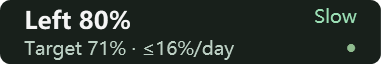
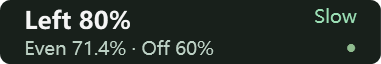
Show calendar and shift-end quota targets together

Changed region(s): [[0.3753, 0.625, 0.6352, 0.9375], [0.0577, 0.625, 0.2887, 0.9375]]

diff --git a/site/en/index.html b/site/en/index.html
@@ -18,7 +18,7 @@
   <meta property="og:url" content="https://chenfenghao.github.io/codex-weekly-pet-hud/en/">
   <meta property="og:locale" content="en_US">
   <meta property="og:image" content="https://chenfenghao.github.io/codex-weekly-pet-hud/assets/images/capsule.en.png">
-  <meta property="og:image:alt" content="Quota left / Target remaining / Daily budget / Reset radar">
+  <meta property="og:image:alt" content="Quota left / Even-use target / Shift-end target / Reset radar">
   <meta name="twitter:card" content="summary">
   <link rel="icon" type="image/svg+xml" href="../assets/icon.svg">
   <link rel="stylesheet" href="../assets/site.css">
@@ -38,10 +38,10 @@
         <div class="actions"><a class="button primary" data-download href="https://github.com/chenfenghao/codex-weekly-pet-hud/releases/latest">Download Windows x64 <span aria-hidden="true">↓</span></a><a class="text-link" href="https://github.com/chenfenghao/codex-weekly-pet-hud">View source ↗</a></div>
         <p class="release-status" data-release-status aria-live="polite">Get the latest stable build on GitHub</p>
       </div>
-      <figure class="preview"><figcaption><span class="preview-dot"></span>Real interface · Sample data</figcaption><div class="preview-inner"><img src="../assets/images/capsule.en.png" width="380" height="144" alt="Quota left / Target remaining / Daily budget / Reset radar"><div class="tether"></div><div class="pet-label">Follows your existing Codex Pet</div></div><p class="preview-caption">Quota left / Target remaining / Daily budget / Reset radar</p></figure>
+      <figure class="preview"><figcaption><span class="preview-dot"></span>Real interface · Sample data</figcaption><div class="preview-inner"><img src="../assets/images/capsule.en.png" width="380" height="144" alt="Quota left / Even-use target / Shift-end target / Reset radar"><div class="tether"></div><div class="pet-label">Follows your existing Codex Pet</div></div><p class="preview-caption">Quota left / Even-use target / Shift-end target / Reset radar</p></figure>
     </section>
     <div class="stats wrap"><div><strong>190 × 72</strong><span>Default size · Adjustable scale</span></div><div><strong>1–60 min</strong><span>Refresh interval · 5 by default</span></div><div><strong>中文 / EN</strong><span>Switch language anytime</span></div></div>
-    <section class="section wrap" id="features"><p class="eyebrow">01 / FEATURES</p><h2>The information you need. Just enough.</h2><div class="features"><article><span class="index">01</span><h3>Understand your pace</h3><p>Choose all-day or working-hours pacing, with weekdays, shifts and breaks. Target remaining freezes off duty; see pace, exhaustion estimates and today’s budget.</p></article><article><span class="index">02</span><h3>Hear about reset signals</h3><p>Reads public community signals from codex-reset.com. New strong signals and reset announcements can alert you. History syncs silently; repeated states do not notify again.</p></article><article><span class="index">03</span><h3>Follows your Pet. Makes room.</h3><p>Follow your Pet, or choose Taskbar mode in Settings for an independent display with Pet closed. Both modes temporarily hide during supported system flyouts.</p></article></div></section>
+    <section class="section wrap" id="features"><p class="eyebrow">01 / FEATURES</p><h2>The information you need. Just enough.</h2><div class="features"><article><span class="index">01</span><h3>Understand your pace</h3><p>See both the even-use balance for now and the planned balance at shift end. Configure weekdays, shifts and breaks; pace, exhaustion estimates and detail budgets support all-day or working-hours calculations.</p></article><article><span class="index">02</span><h3>Hear about reset signals</h3><p>Reads public community signals from codex-reset.com. New strong signals and reset announcements can alert you. History syncs silently; repeated states do not notify again.</p></article><article><span class="index">03</span><h3>Follows your Pet. Makes room.</h3><p>Follow your Pet, or choose Taskbar mode in Settings for an independent display with Pet closed. Both modes temporarily hide during supported system flyouts.</p></article></div></section>
     <section class="pace wrap"><div><p class="eyebrow">02 / YOUR PACE</p><h2>“Left” is your quota.<br>“Target” is your reference.</h2><p>Pace R = quota percentage used ÷ time percentage elapsed in the selected mode. If 40% of the week has passed and 60% of quota is used, R = 1.5: Too fast.</p><p class="small">Uses a fixed seven-day window. Working-hours mode counts scheduled work and budgets for the work left today. Reaching reset does not automatically refill quota.</p></div><div class="pace-bands"><div><i></i><strong>Slow</strong><span>R &lt; 0.85</span></div><div><i></i><strong>On track</strong><span>0.85 ≤ R ≤ 1</span></div><div><i></i><strong>Fast</strong><span>1 &lt; R ≤ 1.3</span></div><div><i></i><strong>Too fast</strong><span>R &gt; 1.3</span></div></div></section>
     <section class="section wrap setup" id="setup"><div><p class="eyebrow">03 / GET STARTED</p><h2>Extract. Open. You are set.</h2><a class="text-link" href="https://github.com/chenfenghao/codex-weekly-pet-hud/blob/main/README.en.md">Read the full English guide ↗</a></div><ol><li><span>01</span><div><h3>Extract the entire archive</h3><p>Run CodexWeeklyPetHud.exe and keep its DLL files alongside it. No separate .NET installation is needed.</p></div></li><li><span>02</span><div><h3>Choose Pet or Taskbar mode</h3><p>Follow your Codex Pet by default, or choose Taskbar mode in Settings from the tray. Click the HUD for details.</p></div></li><li><span>03</span><div><h3>Choose your language and input</h3><p>Use 设置 → 语言 / Language → English. If automatic quota reads fail, paste a reset time and remaining percentage instead.</p></div></li></ol></section>
     <section class="download wrap" id="download"><p class="eyebrow">WINDOWS x64 · MIT</p><h2>Give your Pet a status bar.</h2><p>Windows 10/11 x64 · .NET 8 runtime included · No automatic startup registration</p><div class="actions"><a class="button primary" data-download href="https://github.com/chenfenghao/codex-weekly-pet-hud/releases/latest">Download Windows x64 <span aria-hidden="true">↓</span></a><a class="text-link" data-checksum href="https://github.com/chenfenghao/codex-weekly-pet-hud/releases/latest">SHA-256 checksums ↗</a><a class="text-link" data-release-link href="https://github.com/chenfenghao/codex-weekly-pet-hud/releases/latest">Release notes ↗</a></div><p class="small unsigned">This build is unsigned; Windows may show an unknown-publisher prompt. Exit the old version before upgrading and verify against SHA256SUMS.txt from the same release.</p></section>

diff --git a/site/index.html b/site/index.html
@@ -18,7 +18,7 @@
   <meta property="og:url" content="https://chenfenghao.github.io/codex-weekly-pet-hud/">
   <meta property="og:locale" content="zh_CN">
   <meta property="og:image" content="https://chenfenghao.github.io/codex-weekly-pet-hud/assets/images/capsule.png">
-  <meta property="og:image:alt" content="剩余额度 / 匀速应剩 / 每日建议 / 重置雷达">
+  <meta property="og:image:alt" content="剩余额度 / 匀速应剩 / 下班应剩 / 重置雷达">
   <meta name="twitter:card" content="summary">
   <link rel="icon" type="image/svg+xml" href="assets/icon.svg">
   <link rel="stylesheet" href="assets/site.css">
@@ -38,10 +38,10 @@
         <div class="actions"><a class="button primary" data-download href="https://github.com/chenfenghao/codex-weekly-pet-hud/releases/latest">下载 Windows x64 <span aria-hidden="true">↓</span></a><a class="text-link" href="https://github.com/chenfenghao/codex-weekly-pet-hud">查看源码 ↗</a></div>
         <p class="release-status" data-release-status aria-live="polite">从 GitHub 获取最新稳定版</p>
       </div>
-      <figure class="preview"><figcaption><span class="preview-dot"></span>真实界面 · 示例数据</figcaption><div class="preview-inner"><img src="assets/images/capsule.png" width="380" height="144" alt="剩余额度 / 匀速应剩 / 每日建议 / 重置雷达"><div class="tether"></div><div class="pet-label">跟随你现有的 Codex Pet</div></div><p class="preview-caption">剩余额度 / 匀速应剩 / 每日建议 / 重置雷达</p></figure>
+      <figure class="preview"><figcaption><span class="preview-dot"></span>真实界面 · 示例数据</figcaption><div class="preview-inner"><img src="assets/images/capsule.png" width="380" height="144" alt="剩余额度 / 匀速应剩 / 下班应剩 / 重置雷达"><div class="tether"></div><div class="pet-label">跟随你现有的 Codex Pet</div></div><p class="preview-caption">剩余额度 / 匀速应剩 / 下班应剩 / 重置雷达</p></figure>
     </section>
     <div class="stats wrap"><div><strong>190 × 72</strong><span>默认尺寸 · 可缩放</span></div><div><strong>1–60 min</strong><span>更新间隔 · 默认 5 分钟</span></div><div><strong>中文 / EN</strong><span>界面语言 · 随时切换</span></div></div>
-    <section class="section wrap" id="features"><p class="eyebrow">01 / FEATURES</p><h2>需要的信息，刚好够用。</h2><div class="features"><article><span class="index">01</span><h3>看懂使用节奏</h3><p>选择全天或工作时段算法。可设工作日、上下班与休息时间；应剩在下班后暂停下降，显示使用快慢、耗尽预测和今日建议。</p></article><article><span class="index">02</span><h3>重置信号到来时提醒</h3><p>从 codex-reset.com 读取公开社区信号。新强信号或重置公告高亮并可通知；历史公告静默，同一状态不重复提醒。</p></article><article><span class="index">03</span><h3>跟随宠物，也会让路</h3><p>默认跟随宠物，也可在设置中切换到任务栏独立显示，无需打开 Pet。两种模式均在受支持的系统面板打开时暂时隐藏。</p></article></div></section>
+    <section class="section wrap" id="features"><p class="eyebrow">01 / FEATURES</p><h2>需要的信息，刚好够用。</h2><div class="features"><article><span class="index">01</span><h3>看懂使用节奏</h3><p>同时显示此刻的匀速应剩，以及今天收工时的下班应剩。可设工作日、上下班与休息时间；速率、耗尽预测和详情预算支持全天或工作时段算法。</p></article><article><span class="index">02</span><h3>重置信号到来时提醒</h3><p>从 codex-reset.com 读取公开社区信号。新强信号或重置公告高亮并可通知；历史公告静默，同一状态不重复提醒。</p></article><article><span class="index">03</span><h3>跟随宠物，也会让路</h3><p>默认跟随宠物，也可在设置中切换到任务栏独立显示，无需打开 Pet。两种模式均在受支持的系统面板打开时暂时隐藏。</p></article></div></section>
     <section class="pace wrap"><div><p class="eyebrow">02 / YOUR PACE</p><h2>「剩余」是现状，<br>「应剩」是参照。</h2><p>速率 R = 已用额度百分比 ÷ 所选模式的时间进度。例如时间已过 40%、额度已用 60%，R = 1.5，代表超速。</p><p class="small">按固定 7 天窗口估算；工作时段模式仅累计计划工作时间，今日建议按今天剩余工作时长分配。到达重置时间后等待真实数据。</p></div><div class="pace-bands"><div><i></i><strong>偏慢</strong><span>R &lt; 0.85</span></div><div><i></i><strong>稳健</strong><span>0.85 ≤ R ≤ 1</span></div><div><i></i><strong>偏快</strong><span>1 &lt; R ≤ 1.3</span></div><div><i></i><strong>超速</strong><span>R &gt; 1.3</span></div></div></section>
     <section class="section wrap setup" id="setup"><div><p class="eyebrow">03 / GET STARTED</p><h2>解压，打开，就位。</h2><a class="text-link" href="https://github.com/chenfenghao/codex-weekly-pet-hud/blob/main/README.md">阅读完整中文说明 ↗</a></div><ol><li><span>01</span><div><h3>完整解压下载包</h3><p>运行 CodexWeeklyPetHud.exe，保留旁边的 DLL 文件；无需单独安装 .NET。</p></div></li><li><span>02</span><div><h3>选择宠物或任务栏模式</h3><p>默认跟随 Codex Pet；也可从系统托盘进入设置，切换为任务栏显示。单击状态条查看详情。</p></div></li><li><span>03</span><div><h3>选好语言与输入方式</h3><p>设置 → 语言 / Language 切换中英文。自动读取不可用时，可以粘贴重置时间和剩余百分比。</p></div></li></ol></section>
     <section class="download wrap" id="download"><p class="eyebrow">WINDOWS x64 · MIT</p><h2>给 Pet 加一条状态栏。</h2><p>Windows 10/11 x64 · .NET 8 运行时已包含 · 便携版不注册开机启动</p><div class="actions"><a class="button primary" data-download href="https://github.com/chenfenghao/codex-weekly-pet-hud/releases/latest">下载 Windows x64 <span aria-hidden="true">↓</span></a><a class="text-link" data-checksum href="https://github.com/chenfenghao/codex-weekly-pet-hud/releases/latest">SHA-256 校验文件 ↗</a><a class="text-link" data-release-link href="https://github.com/chenfenghao/codex-weekly-pet-hud/releases/latest">版本记录 ↗</a></div><p class="small unsigned">当前构建未签名，Windows 可能提示未知发布者。升级前先从托盘退出旧版，并核对同一 Release 的 SHA256SUMS.txt。</p></section>

diff --git a/platforms/windows/CodexPetLimitRings.Windows/Views/UsageDetailsWindow.xaml b/platforms/windows/CodexPetLimitRings.Windows/Views/UsageDetailsWindow.xaml
@@ -11,6 +11,11 @@
   <DockPanel><Button Content="{local:Tr '设置'}" DockPanel.Dock="Right" Click="Settings_OnClick" Background="#293A30" Foreground="#BDD2C4" Padding="8,3"/><TextBlock Text="{local:Tr '本周节奏'}" Foreground="#A4AFA8" FontSize="12"/><TextBlock x:Name="StatusText" HorizontalAlignment="Right" FontSize="12" Margin="0,0,12,0"/></DockPanel>
   <TextBlock x:Name="RemainingText" Text="—%" FontSize="44" Margin="0,17,0,0"/>
   <TextBlock Text="{local:Tr '剩余可用额度'}" Foreground="#939E98" FontSize="11" Margin="0,0,0,18"/>
+  <Grid Margin="0,0,0,8"><Grid.ColumnDefinitions><ColumnDefinition/><ColumnDefinition/></Grid.ColumnDefinitions>
+    <StackPanel><TextBlock Text="{local:Tr '匀速应剩（此刻）'}" FontSize="11" Foreground="#AFC3B7"/><TextBlock x:Name="EvenTargetText" FontSize="23" Margin="0,4,0,0"/></StackPanel>
+    <StackPanel Grid.Column="1"><TextBlock x:Name="CloseTargetLabel" Text="{local:Tr '下班应剩'}" FontSize="11" Foreground="#AFC3B7"/><TextBlock x:Name="CloseTargetText" FontSize="23" Margin="0,4,0,0"/></StackPanel>
+  </Grid>
+  <TextBlock x:Name="WorkDeadlineText" Foreground="#939E98" FontSize="10" TextWrapping="Wrap" Margin="0,0,0,16"/>
   <DockPanel><TextBlock Text="{local:Tr '额度已用'}" Foreground="#9EAAA2" FontSize="11"/><TextBlock x:Name="UsedText" HorizontalAlignment="Right" FontSize="11"/></DockPanel>
   <ProgressBar x:Name="UsedBar" Height="5" Maximum="100" Margin="0,8,0,15" Background="#2B352E" Foreground="#9BDFB5" BorderThickness="0"/>
   <DockPanel><TextBlock x:Name="TimeLabel" Text="{local:Tr '时间已过'}" Foreground="#9EAAA2" FontSize="11"/><TextBlock x:Name="TimeText" HorizontalAlignment="Right" FontSize="11"/></DockPanel>

diff --git a/platforms/windows/CodexPetLimitRings.Windows/Views/SettingsWindow.xaml b/platforms/windows/CodexPetLimitRings.Windows/Views/SettingsWindow.xaml
@@ -35,7 +35,7 @@
       <Border Padding="16" Margin="0,0,0,12" CornerRadius="12" Background="White" BorderBrush="#E4E4E7" BorderThickness="1">
         <StackPanel>
           <TextBlock Text="{local:Tr '额度节奏算法'}" FontSize="15" FontWeight="SemiBold"/>
-          <CheckBox x:Name="WorkHoursEnabled" Content="{local:Tr '按工作时段计算（关闭则按全天）'}" Margin="0,10,0,8" Checked="Control_OnChanged" Unchecked="Control_OnChanged"/>
+          <CheckBox x:Name="WorkHoursEnabled" Content="{local:Tr '速率与预算按工作时段计算'}" Margin="0,10,0,8" Checked="Control_OnChanged" Unchecked="Control_OnChanged"/>
           <StackPanel x:Name="WorkHoursOptions">
             <WrapPanel x:Name="WorkDaysPanel" Margin="0,0,0,10">
               <CheckBox Content="{local:Tr '周一'}" Tag="1" Margin="0,0,12,6" Checked="Control_OnChanged" Unchecked="Control_OnChanged"/>

diff --git a/scripts/build-site.py b/scripts/build-site.py
@@ -16,11 +16,11 @@ COPY = {
         'heading': 'Codex 周额度，<br><span>一眼看清节奏。</span>',
         'intro': '剩下多少，应该用多快。把周额度、使用节奏和重置信号放在你的 Codex Pet 上方，专心做事，也心里有数。',
         'download': '下载 Windows x64', 'source': '查看源码 ↗', 'release': '从 GitHub 获取最新稳定版',
-        'figure': '真实界面 · 示例数据', 'pet': '跟随你现有的 Codex Pet', 'caption': '剩余额度 / 匀速应剩 / 每日建议 / 重置雷达',
+        'figure': '真实界面 · 示例数据', 'pet': '跟随你现有的 Codex Pet', 'caption': '剩余额度 / 匀速应剩 / 下班应剩 / 重置雷达',
         'stats': [('190 × 72', '默认尺寸 · 可缩放'), ('1–60 min', '更新间隔 · 默认 5 分钟'), ('中文 / EN', '界面语言 · 随时切换')],
         'featureTitle': '需要的信息，刚好够用。',
         'features': [
-            ('01', '看懂使用节奏', '选择全天或工作时段算法。可设工作日、上下班与休息时间；应剩在下班后暂停下降，显示使用快慢、耗尽预测和今日建议。'),
+            ('01', '看懂使用节奏', '同时显示此刻的匀速应剩，以及今天收工时的下班应剩。可设工作日、上下班与休息时间；速率、耗尽预测和详情预算支持全天或工作时段算法。'),
             ('02', '重置信号到来时提醒', '从 codex-reset.com 读取公开社区信号。新强信号或重置公告高亮并可通知；历史公告静默，同一状态不重复提醒。'),
             ('03', '跟随宠物，也会让路', '默认跟随宠物，也可在设置中切换到任务栏独立显示，无需打开 Pet。两种模式均在受支持的系统面板打开时暂时隐藏。'),
         ],
@@ -47,11 +47,11 @@ COPY = {
         'heading': 'Your Codex quota,<br><span>at a glance.</span>',
         'intro': 'Know what is left and how fast to use it. Keep weekly quota, usage pace and reset signals above your existing Codex Pet, so you can focus on the work.',
         'download': 'Download Windows x64', 'source': 'View source ↗', 'release': 'Get the latest stable build on GitHub',
-        'figure': 'Real interface · Sample data', 'pet': 'Follows your existing Codex Pet', 'caption': 'Quota left / Target remaining / Daily budget / Reset radar',
+        'figure': 'Real interface · Sample data', 'pet': 'Follows your existing Codex Pet', 'caption': 'Quota left / Even-use target / Shift-end target / Reset radar',
         'stats': [('190 × 72', 'Default size · Adjustable scale'), ('1–60 min', 'Refresh interval · 5 by default'), ('中文 / EN', 'Switch language anytime')],
         'featureTitle': 'The information you need. Just enough.',
         'features': [
-            ('01', 'Understand your pace', 'Choose all-day or working-hours pacing, with weekdays, shifts and breaks. Target remaining freezes off duty; see pace, exhaustion estimates and today’s budget.'),
+            ('01', 'Understand your pace', 'See both the even-use balance for now and the planned balance at shift end. Configure weekdays, shifts and breaks; pace, exhaustion estimates and detail budgets support all-day or working-hours calculations.'),
             ('02', 'Hear about reset signals', 'Reads public community signals from codex-reset.com. New strong signals and reset announcements can alert you. History syncs silently; repeated states do not notify again.'),
             ('03', 'Follows your Pet. Makes room.', 'Follow your Pet, or choose Taskbar mode in Settings for an independent display with Pet closed. Both modes temporarily hide during supported system flyouts.'),
         ],

diff --git a/platforms/windows/CodexPetLimitRings.Windows/TargetSelfTest.cs b/platforms/windows/CodexPetLimitRings.Windows/TargetSelfTest.cs
@@ -1,0 +1,44 @@
+namespace CodexPetLimitRings.Windows;
+
+internal static class TargetSelfTest
+{
+    internal static void Run(Action<bool, string> check)
+    {
+        var zone = TimeZoneInfo.CreateCustomTimeZone("TargetTest", TimeSpan.FromHours(8), "TargetTest", "TargetTest");
+        DateTimeOffset At(int day, int hour) => new(2026, 9, day, hour, 0, 0, zone.BaseUtcOffset);
+        var settings = new OverlaySettings { WorkHoursEnabled = true, WorkDays = [1,2,3,4,5,6], WorkStartMinute = 420, WorkEndMinute = 1260 };
+        var reset = At(21,7).ToUnixTimeSeconds();
+        QuotaTargets Calc(DateTimeOffset now) => WeeklyTargets.Calculate(reset,now,settings,zone);
+        void Near(double? actual, double expected, string label) => check(actual is { } value && Math.Abs(value-expected)<0.000001,label);
+        var morning=Calc(At(15,7)); var evening=Calc(At(15,20));
+        Near(morning.EvenRemaining,600d/7,"Even target counts all remaining calendar time");
+        Near(morning.CloseRemaining,200d/3,"Closing target leaves four shifts out of six");
+        Near(evening.CloseRemaining,morning.CloseRemaining!.Value,"Closing target remains fixed during work");
+        Near(Calc(At(15,23)).CloseRemaining,morning.CloseRemaining.Value,"Closing target remains fixed after work");
+        check(evening.EvenRemaining<morning.EvenRemaining,"Even target moves during day");
+        check(morning.Deadline==At(15,21) && !morning.DayOff,"Deadline is today's actual closing time");
+        settings.WorkHoursEnabled=false;
+        check(Calc(At(15,7))==morning,"Dual targets independent of pace mode");
+        settings.WorkBreakEnabled=true;
+        Near(Calc(At(15,7)).CloseRemaining,200d/3,"Daily break excluded from both total and future hours");
+        settings.WorkBreakEnabled=false;
+        var early=WeeklyTargets.Calculate(At(15,12).ToUnixTimeSeconds(),At(15,7),settings,zone);
+        Near(early.CloseRemaining,0,"Reset before closing clips target to this cycle");
+        check(early.ResetBeforeClose && early.Deadline==At(15,12),"Reset deadline disclosed");
+        check(Calc(At(20,7)).DayOff,"Sunday uses day-off label");
+        Near(Calc(At(20,23)).CloseRemaining,Calc(At(20,7)).CloseRemaining!.Value,"Day-off target remains fixed");
+        check(Calc(At(21,7)).EvenRemaining is null && Calc(At(21,7)).CloseRemaining is null,"Expired cycle clears both targets");
+        check(WeeklyTargets.Calculate(null,At(15,7),settings,zone).EvenRemaining is null,"Missing reset has no targets");
+        check(WeeklyTargets.Calculate(long.MaxValue,At(15,7),settings,zone).CloseRemaining is null,"Invalid timestamp has no targets");
+        check(WeeklyTargets.Calculate(At(23,7).ToUnixTimeSeconds(),At(15,7),settings,zone).EvenRemaining is null,"Beyond-seven-days reset rejected");
+        settings.WorkDays=[];
+        check(Calc(At(15,7)).EvenRemaining is not null && Calc(At(15,7)).CloseRemaining is null,"Invalid schedule preserves valid calendar benchmark");
+        settings.WorkDays=[1,2]; settings.WorkStartMinute=22*60; settings.WorkEndMinute=2*60;
+        var nightReset=At(21,12).ToUnixTimeSeconds();
+        var night=WeeklyTargets.Calculate(nightReset,At(14,23),settings,zone);
+        var afterMidnight=WeeklyTargets.Calculate(nightReset,At(15,1),settings,zone);
+        check(night.CloseRemaining==afterMidnight.CloseRemaining && night.Deadline==At(15,2) && afterMidnight.Deadline==night.Deadline,"Active overnight target survives midnight");
+        Near(night.CloseRemaining,50,"Overnight target preserves next shift");
+        check(WeeklyTargets.Calculate(nightReset,At(15,10),settings,zone).Deadline==At(16,2),"After overnight shift use today's upcoming shift");
+    }
+}

diff --git a/platforms/windows/CodexPetLimitRings.Windows/Views/UsageDetailsWindow.xaml.cs b/platforms/windows/CodexPetLimitRings.Windows/Views/UsageDetailsWindow.xaml.cs
@@ -6,7 +6,7 @@ namespace CodexPetLimitRings.Windows.Views;
 
 public partial class UsageDetailsWindow : Window
 {
-    public OverlaySettings? PacingSettings { get; set; }
+    public OverlaySettings? PacingSettings { get; set; } = new();
     private bool _allowClose;
     private string? _lastLanguage;
     public event Action? RefreshRequested;
@@ -28,6 +28,15 @@ public partial class UsageDetailsWindow : Window
     public void Update(UsageSnapshot usage, bool refreshing)
     {
         var pace = WeeklyPacing.Calculate(usage.SecondaryRemaining, usage.SecondaryReset, DateTimeOffset.Now, PacingSettings);
+        var targets = WeeklyTargets.Calculate(usage.SecondaryReset, DateTimeOffset.Now, PacingSettings);
+        var fresh = usage.Source is "live" or "manual";
+        EvenTargetText.Text = QuotaTargets.Percent(fresh ? targets.EvenRemaining : null);
+        CloseTargetText.Text = QuotaTargets.Percent(fresh ? targets.CloseRemaining : null);
+        CloseTargetLabel.Text = UiText.T(targets.DayOff ? "休息日应剩" : "下班应剩");
+        WorkDeadlineText.Text = targets.Deadline is { } deadline
+            ? UiText.F("工作目标截止：{0}", UiText.Date(deadline.LocalDateTime))
+            : UiText.T("设置有效作息和重置时间后显示下班目标。");
+        if (targets.ResetBeforeClose) WorkDeadlineText.Text += "\n" + UiText.T("本周期在下班前重置，工作目标截止于重置时刻。");
         var brush = (SolidColorBrush)new BrushConverter().ConvertFromString(pace.Color)!;
         RemainingText.Text = usage.SecondaryRemaining is { } remaining ? $"{remaining:0.#}%" : "—%";
         StatusText.Text = UiText.T(pace.Status); StatusText.Foreground = brush; UsedBar.Foreground = brush;
@@ -38,7 +47,7 @@ public partial class UsageDetailsWindow : Window
         TimeLabel.Text = UiText.T(work ? "计划工作时间已过" : "时间已过");
         BudgetLabel.Text = UiText.T(work ? "今日剩余可用" : "后续每日上限");
         BudgetText.Text = pace.DailyBudget is { } budget ? UiText.F(work ? "≤ {0:0.#}% 今日" : "≤ {0:0.#}% /天", Math.Floor(budget * 10) / 10) : "—";
-        PacingExplanation.Text = UiText.T(work ? "按本机时区和工作时段计算应剩，下班与休息日暂停推进。今日建议仅包含今天午夜前剩余工作时段；临时加班消耗仍会计入。修改作息会重新计算整个周期。" : "应剩＝100%−本周时间进度；建议每日上限＝剩余额度按剩余天数均摊。点击上方「设置」调整自动读取间隔，默认 5 分钟；手动粘贴后暂停自动覆盖。");
+        PacingExplanation.Text = UiText.T("匀速应剩＝剩余自然时间÷7天；下班应剩＝下班后剩余工作时长÷本周期全部工作时长。两者都是计划参考值，不随实际余额改变。");
         PredictionText.Text = pace.Prediction; PredictionText.Foreground = brush;
         CountdownText.Text = UiText.T("距离重置  ") + WeeklyPacing.Countdown(usage.SecondaryReset, DateTimeOffset.Now);
         try { ResetText.Text = usage.SecondaryReset is { } reset ? DateTimeOffset.FromUnixTimeSeconds(reset).LocalDateTime.ToString(UiText.IsEnglish ? "yyyy MMM d, ddd HH:mm" : "yyyy年M月d日 ddd HH:mm", UiText.Culture) : UiText.T("本机时区"); }

diff --git a/platforms/windows/CodexPetLimitRings.Windows/Views/PotionWindow.xaml.cs b/platforms/windows/CodexPetLimitRings.Windows/Views/PotionWindow.xaml.cs
@@ -11,7 +11,7 @@ namespace CodexPetLimitRings.Windows.Views;
 public partial class PotionWindow : Window
 {
 
-    public OverlaySettings? PacingSettings { get; set; }
+    public OverlaySettings? PacingSettings { get; set; } = new();
     private readonly string _accessibleLabel;
     private double _appliedScale = double.NaN;
     private bool _pointerPressed;
@@ -42,23 +42,23 @@ public partial class PotionWindow : Window
 
     public void UpdateUsage(double? remaining, long? resetAt, string source)
     {
-        var pace = WeeklyPacing.Calculate(remaining, resetAt, DateTimeOffset.Now, PacingSettings);
+        var now = DateTimeOffset.Now;
+        var pace = WeeklyPacing.Calculate(remaining, resetAt, now, PacingSettings);
+        var targets = WeeklyTargets.Calculate(resetAt, now, PacingSettings);
         var fresh = source is "live" or "manual";
         PaceText.Text = UiText.T(source == "none" ? "同步中" : source == "stale" ? "待更新" : pace.Status switch
         {
             "待确认重置" => "待重置", "刚刚开始" => "初始期", "检查时间" => "查时间", "等待数据" => "待数据", _ => pace.Status
         });
         RemainingText.Text = remaining is { } value ? UiText.F("剩余 {0:0.#}%", value) : UiText.T("剩余 —");
-        var ideal = fresh && pace.TimePercent is { } time && pace.DailyBudget is not null ? $"{100 - time:0}%" : "—";
-        var daily = fresh && pace.DailyBudget is { } budget ? $"≤{Math.Floor(budget * 10) / 10:0.#}%" : "—";
-        IdealText.Text = UiText.F(PacingSettings?.WorkHoursEnabled == true ? "应剩 {0} · 今日 {1}" : "应剩 {0} · 建议 {1}/天", ideal, daily);
+        IdealText.Text = targets.Compact(fresh);
         var countdown = WeeklyPacing.Countdown(resetAt, DateTimeOffset.Now);
         var brush = (SolidColorBrush)new BrushConverter().ConvertFromString(fresh ? pace.Color : "#9AADA1")!;
         StatusDot.Fill = brush; PaceText.Foreground = brush;
         Capsule.BorderBrush = new SolidColorBrush(System.Windows.Media.Color.FromArgb(90, brush.Color.R, brush.Color.G, brush.Color.B));
         var sourceText = UiText.T(source == "manual" ? "粘贴记录 · 不自动覆盖" : source == "live" ? "自动更新" : "等待最新数据");
-        Root.ToolTip = UiText.F("周额度剩余 {0:0.#}% · {1}\n匀速使用此刻应剩 {2}；每日建议 {3}\n速率 {4:0.00}× · {5}\n{6}\n{7}", remaining, UiText.T(pace.Status), ideal, daily, pace.Ratio, countdown, pace.Prediction, sourceText);
-        if (PacingSettings?.WorkHoursEnabled == true) Root.ToolTip = $"{RemainingText.Text} · {PaceText.Text}\n{IdealText.Text}\n{pace.Prediction}\n{countdown}\n{sourceText}";
+        Root.ToolTip = $"{RemainingText.Text} · {PaceText.Text}\n{IdealText.Text}\n{UiText.T("匀速：按自然时间计算此刻应剩；下班：按工作时段计算下班时应留。目标不随实际消耗改变。") }\n{pace.Prediction}\n{countdown}\n{sourceText}";
+        if (targets.ResetBeforeClose) Root.ToolTip += "\n" + UiText.T("本周期在下班前重置，工作目标截止于重置时刻。");
         AutomationProperties.SetName(this, $"{UiText.T(_accessibleLabel)}: {Root.ToolTip}");
         AutomationProperties.SetName(Root, $"{UiText.T(_accessibleLabel)}: {Root.ToolTip}");
     }

diff --git a/platforms/windows/CodexPetLimitRings.Windows/Views/TaskbarHudView.cs b/platforms/windows/CodexPetLimitRings.Windows/Views/TaskbarHudView.cs
@@ -11,7 +11,7 @@ namespace CodexPetLimitRings.Windows.Views;
 
 internal sealed class TaskbarHudView : System.Windows.Controls.Border
 {
-    public OverlaySettings? PacingSettings { get; set; }
+    public OverlaySettings? PacingSettings { get; set; } = new();
     private readonly TextBlock _remaining = new() { FontSize = 13, FontWeight = FontWeights.SemiBold, Foreground = Brushes.WhiteSmoke };
     private readonly TextBlock _pace = new() { FontSize = 10, HorizontalAlignment = System.Windows.HorizontalAlignment.Right };
     private readonly TextBlock _target = new() { FontSize = 10, Foreground = new SolidColorBrush(Color.FromRgb(188, 208, 196)) };
@@ -39,7 +39,9 @@ internal sealed class TaskbarHudView : System.Windows.Controls.Border
 
     internal void Update(UsageSnapshot usage, string radarHeadline, string radarDetail, bool attention)
     {
-        var pace = WeeklyPacing.Calculate(usage.SecondaryRemaining, usage.SecondaryReset, DateTimeOffset.Now, PacingSettings);
+        var now = DateTimeOffset.Now;
+        var pace = WeeklyPacing.Calculate(usage.SecondaryRemaining, usage.SecondaryReset, now, PacingSettings);
+        var targets = WeeklyTargets.Calculate(usage.SecondaryReset, now, PacingSettings);
         var fresh = usage.Source is "live" or "manual";
         _remaining.Text = usage.SecondaryRemaining is { } value ? UiText.F("剩余 {0:0}%", value) : UiText.T("剩余 —");
         _pace.Text = UiText.T(usage.Source == "none" ? "同步中" : usage.Source == "stale" ? "待更新" : pace.Status switch
@@ -47,11 +49,11 @@ internal sealed class TaskbarHudView : System.Windows.Controls.Border
             "待确认重置" => "待重置", "刚刚开始" => "初始期", "检查时间" => "查时间", "等待数据" => "待数据", _ => pace.Status
         });
         _pace.Foreground = (SolidColorBrush)new BrushConverter().ConvertFromString(fresh ? pace.Color : "#9AADA1")!;
-        var ideal = fresh && pace.TimePercent is { } time && pace.DailyBudget is not null ? $"{100-time:0}%" : "—";
-        var daily = fresh && pace.DailyBudget is { } budget ? $"≤{Math.Floor(budget * 10) / 10:0.#}%" : "—";
-        _target.Text = UiText.F(PacingSettings?.WorkHoursEnabled == true ? "应剩 {0} · 今日 {1}" : "应剩 {0} · 建议 {1}/天", ideal, daily);
+        _target.Text = targets.Compact(fresh);
         _radar.Foreground = attention ? Brushes.Gold : Brushes.DarkSeaGreen;
         ToolTip = $"{_remaining.Text} · {_pace.Text}\n{_target.Text}\n{pace.Prediction}\n{WeeklyPacing.Countdown(usage.SecondaryReset, DateTimeOffset.Now)}\n{radarHeadline}\n{radarDetail}\n{UiText.T("单击查看详情，右键打开设置。")}";
+        ToolTip += "\n" + UiText.T("匀速：按自然时间计算此刻应剩；下班：按工作时段计算下班时应留。目标不随实际消耗改变。");
+        if (targets.ResetBeforeClose) ToolTip += "\n" + UiText.T("本周期在下班前重置，工作目标截止于重置时刻。");
         AutomationProperties.SetName(this, ToolTip.ToString());
     }
 }

diff --git a/platforms/windows/CodexPetLimitRings.Windows/WeeklyTargets.cs b/platforms/windows/CodexPetLimitRings.Windows/WeeklyTargets.cs
@@ -1,0 +1,48 @@
+namespace CodexPetLimitRings.Windows;
+
+public sealed record QuotaTargets(double? EvenRemaining, double? CloseRemaining, DateTimeOffset? Deadline, bool DayOff, bool ResetBeforeClose)
+{
+    public string Compact(bool fresh) => UiText.F(DayOff ? "匀速 {0} · 休息 {1}" : "匀速 {0} · 下班 {1}",
+        Percent(fresh ? EvenRemaining : null), Percent(fresh ? CloseRemaining : null));
+    public static string Percent(double? value) => value is { } number ? $"{number:0.#}%" : "—";
+}
+
+public static class WeeklyTargets
+{
+    // Targets are schedule benchmarks; actual quota spending must not move them.
+    public static QuotaTargets Calculate(long? resetAt, DateTimeOffset now, OverlaySettings? settings, TimeZoneInfo? zone = null)
+    {
+        var empty = new QuotaTargets(null, null, null, false, false);
+        if (resetAt is null) return empty;
+        DateTimeOffset reset;
+        try { reset = DateTimeOffset.FromUnixTimeSeconds(resetAt.Value); }
+        catch (ArgumentOutOfRangeException) { return empty; }
+        var left = (reset - now).TotalSeconds;
+        if (left <= 0 || left > 7 * 86400) return empty;
+        var even = Math.Clamp(left / (7 * 86400) * 100, 0, 100);
+        if (settings is null || settings.WorkStartMinute == settings.WorkEndMinute ||
+            settings.WorkBreakEnabled && settings.WorkBreakStartMinute == settings.WorkBreakEndMinute)
+            return empty with { EvenRemaining = even };
+        zone ??= TimeZoneInfo.Local;
+        var start = reset.AddDays(-7);
+        var intervals = WorkSchedule.Build(start, reset, settings, zone);
+        var total = WorkSchedule.Seconds(intervals, start, reset);
+        if (total <= 0) return empty with { EvenRemaining = even };
+        var local = TimeZoneInfo.ConvertTime(now, zone);
+        var date = local.Date;
+        var overnight = settings.WorkEndMinute < settings.WorkStartMinute;
+        var previousShift = overnight && settings.WorkDays.Contains((int)date.AddDays(-1).DayOfWeek);
+        var previousEnd = WorkSchedule.Instant(date.AddMinutes(settings.WorkEndMinute), zone, true);
+        var todayShift = settings.WorkDays.Contains((int)date.DayOfWeek);
+        // An active overnight shift retains its closing target across midnight.
+        // On an off-day immediately following it, retain that same closing target.
+        var usePrevious = previousShift && (now < previousEnd || !todayShift);
+        var dayOff = !todayShift && !usePrevious;
+        var end = usePrevious ? previousEnd : dayOff
+            ? WorkSchedule.Instant(date.AddDays(1), zone, false)
+            : WorkSchedule.Instant(date.AddDays(overnight ? 1 : 0).AddMinutes(settings.WorkEndMinute), zone, true);
+        var deadline = end > reset ? reset : end;
+        var future = WorkSchedule.Seconds(intervals, deadline < start ? start : deadline, reset);
+        return new(even, Math.Clamp(future / total * 100, 0, 100), deadline, dayOff, end > reset);
+    }
+}

diff --git a/platforms/windows/CodexPetLimitRings.Windows/UiText.cs b/platforms/windows/CodexPetLimitRings.Windows/UiText.cs
@@ -25,6 +25,18 @@ public sealed class UiText : INotifyPropertyChanged
     internal static IReadOnlyDictionary<string, string> Translations => English;
     private static readonly Dictionary<string, string> English = new()
     {
+        ["匀速 {0} · 下班 {1}"] = "Even {0} · Close {1}",
+        ["匀速 {0} · 休息 {1}"] = "Even {0} · Off {1}",
+        ["匀速应剩（此刻）"] = "Even target (now)",
+        ["下班应剩"] = "At shift end",
+        ["休息日应剩"] = "Day-off target",
+        ["工作目标截止：{0}"] = "Work target deadline: {0}",
+        ["设置有效作息和重置时间后显示下班目标。"] = "Set valid work hours and a reset time to see the closing target.",
+        ["本周期在下班前重置，工作目标截止于重置时刻。"] = "This cycle resets before shift end; the work target stops at reset.",
+        ["匀速：按自然时间计算此刻应剩；下班：按工作时段计算下班时应留。目标不随实际消耗改变。"] = "Even: quota expected now by elapsed calendar time. Close: quota to retain at shift end by work hours. Spending does not change either target.",
+        ["速率与预算按工作时段计算"] = "Use working hours for pace and budget",
+        ["始终同时显示匀速与下班两个目标。上方选项仅切换速率和预算算法；工作日与时间决定下班目标。"] = "Both targets are always shown. The option above only changes pace and budget; working days and times determine the closing target.",
+        ["匀速应剩＝剩余自然时间÷7天；下班应剩＝下班后剩余工作时长÷本周期全部工作时长。两者都是计划参考值，不随实际余额改变。"] = "Even target = calendar time left / 7 days. Closing target = work hours after shift end / all cycle work hours. Both are plan benchmarks, independent of actual quota left.",
         ["额度节奏算法"] = "Quota pacing",
         ["按工作时段计算（关闭则按全天）"] = "Use working hours (off: all day)",
         ["周一"] = "Mon", ["周二"] = "Tue", ["周三"] = "Wed", ["周四"] = "Thu", ["周五"] = "Fri", ["周六"] = "Sat", ["周日"] = "Sun",

diff --git a/platforms/windows/CodexPetLimitRings.Windows/Views/SettingsWindow.xaml.cs b/platforms/windows/CodexPetLimitRings.Windows/Views/SettingsWindow.xaml.cs
@@ -95,10 +95,10 @@ public partial class SettingsWindow : Window
     private void UpdateValueLabels()
     {
         var taskbar = _settings.DisplayMode == "taskbar";
-        WorkHoursOptions.Visibility = _settings.WorkHoursEnabled ? Visibility.Visible : Visibility.Collapsed;
+        WorkHoursOptions.Visibility = Visibility.Visible;
         WorkBreakStart.IsEnabled = WorkBreakEnd.IsEnabled = _settings.WorkBreakEnabled;
         var invalid = _settings.WorkDays.Length == 0 || _settings.WorkStartMinute == _settings.WorkEndMinute || _settings.WorkBreakEnabled && _settings.WorkBreakStartMinute == _settings.WorkBreakEndMinute;
-        WorkHoursSummary.Text = UiText.T(invalid ? "请选择工作日和不同的起止时间；无有效时段时暂停预测。" : "下班后应剩不再下降；今日建议按今天剩余工作时间分配。休息时段仅扣除与工作重叠的部分。");
+        WorkHoursSummary.Text = UiText.T(invalid ? "请选择工作日和不同的起止时间；无有效时段时暂停预测。" : "始终同时显示匀速与下班两个目标。上方选项仅切换速率和预算算法；工作日与时间决定下班目标。");
         TaskbarOptions.Visibility = taskbar ? Visibility.Visible : Visibility.Collapsed;
         Alignment.IsEnabled = HorizontalOffset.IsEnabled = VerticalOffset.IsEnabled = Scale.IsEnabled = PotionGap.IsEnabled = !taskbar;
         TaskbarOffsetValue.Text = $"{TaskbarOffset.Value:0}px";
